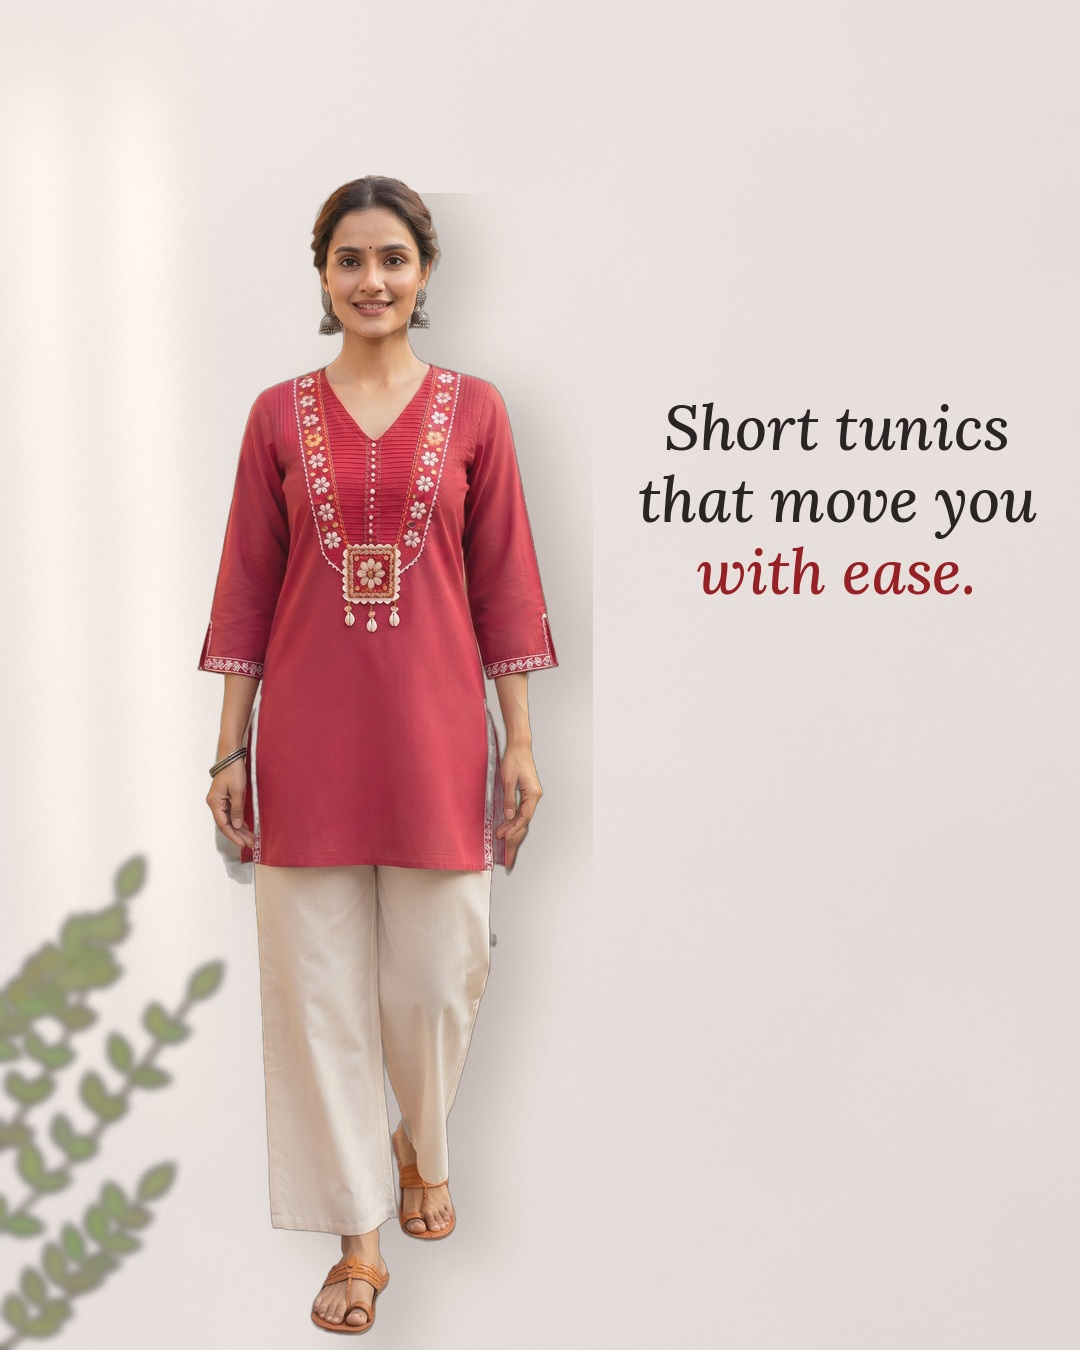
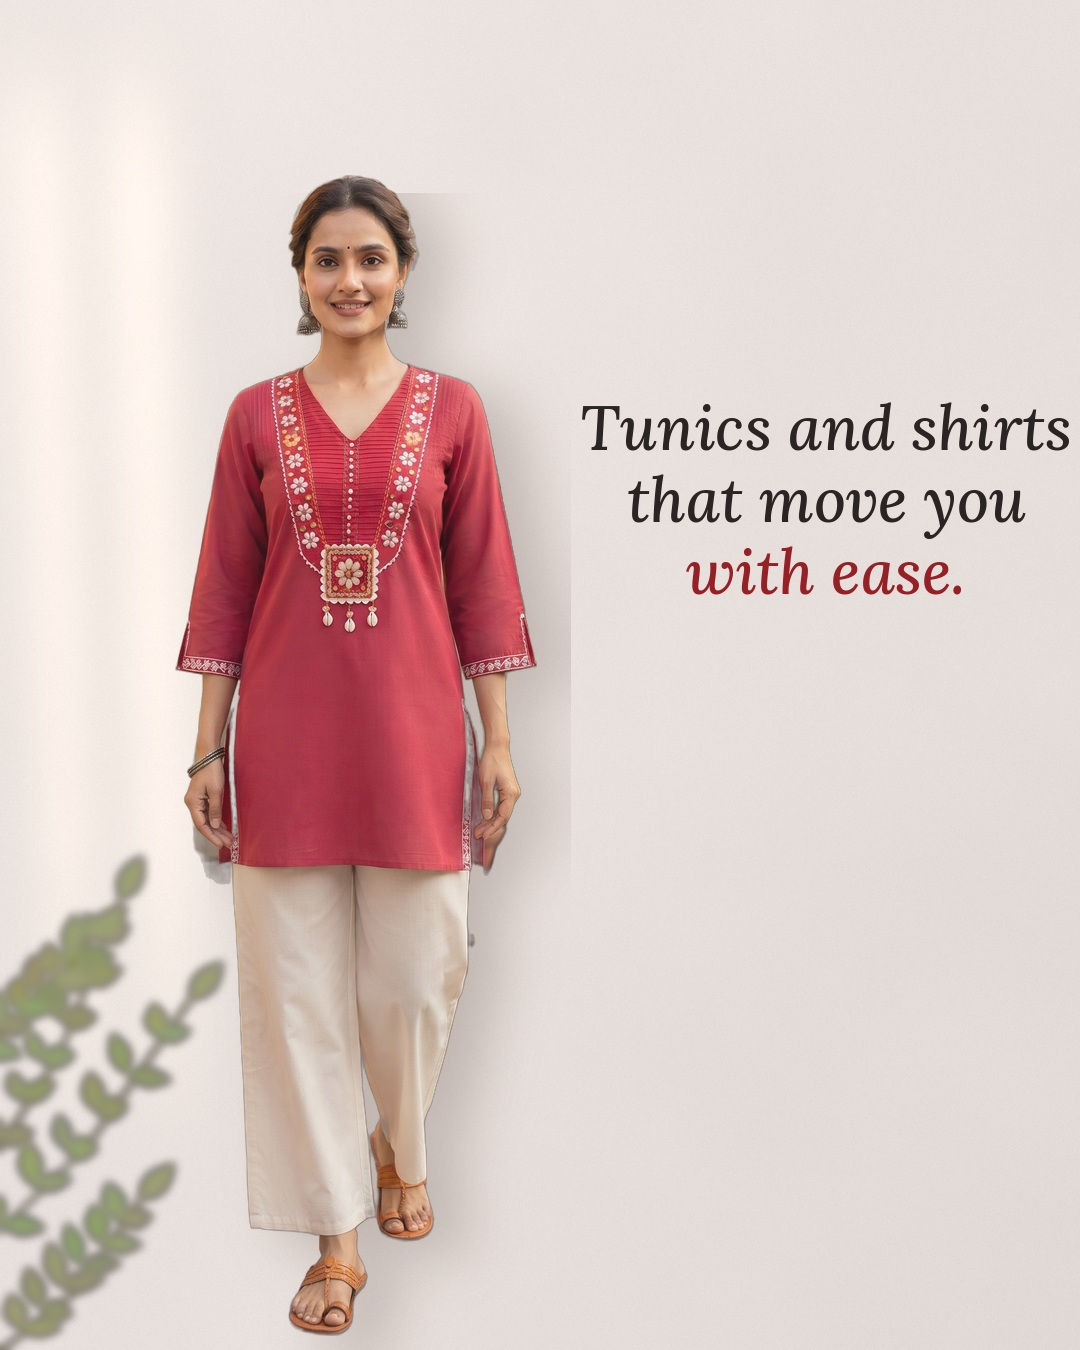
Top-stock carousel: say 'Tunics and shirts' on slide 2
Claude-Session: https://claude.ai/code/session_01LZv7UTnsZcwjx4RXmrtg3u

Changed region(s): [[0.1528, 0.1244, 0.55, 0.9956], [0.55, 0.28, 1.0, 0.4667]]

diff --git a/marketing/posts/everyday_favourite_carousel.py b/marketing/posts/everyday_favourite_carousel.py
@@ -52,8 +52,8 @@ SLIDES_2 = [
 # third set: the tunics and tops with the most stock (4 each), without the shrug. Paths are relative to product-photos/.
 SLIDES_3 = [
     ("everyday-favourite/cutouts/1-pink-jaipuri-short-top", 1.36, 0.235, 0.50, None, None),
-    ("everyday-favourite/cutouts/2-maroon-mirror-work-tunic", 0.86, 0.13, 0.35,
-     [("Short tunics", False), ("that move you", False), ("with ease.", True)], (0.775, 0.37)),
+    ("everyday-favourite/cutouts/2-maroon-mirror-work-tunic", 0.86, 0.13, 0.33,
+     [("Tunics and shirts", False), ("that move you", False), ("with ease.", True)], (0.765, 0.37)),
     ("everyday-favourite-2/cutouts/1-denim-balloon-sleeve-top", 1.18, 0.15, 0.36,
      [("Handcrafted", False), ("for the", False), ("modern minds.", True)], (0.80, 0.33)),
     ("everyday-favourite-2/cutouts/2-rich-red-chanderi-shirt", 0.86, 0.13, 0.29,
